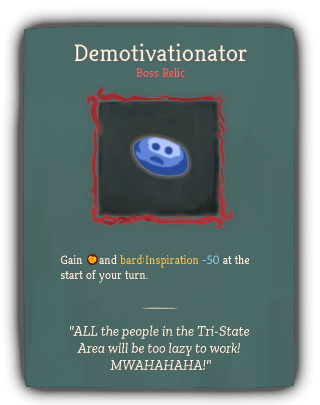
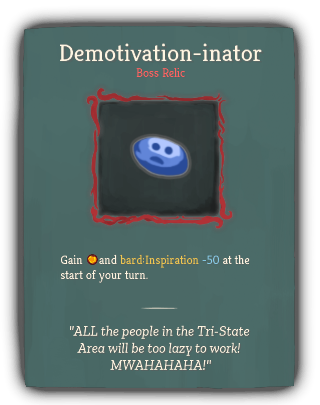
goo goo

Changed region(s): [[0.1875, 0.0889, 0.8125, 0.1481]]

diff --git a/vexMod/index.html b/vexMod/index.html
@@ -1106,15 +1106,6 @@ When you die or win, @DBotling tweets about your run.</td>
   </tr>
   
   <tr>
-    <td><a href="relics/popup/RestingRock.png">Rock of Resting</a></td>
-    <td><img src="relics/RestingRock.png" width="128" height="128"><a href="relics/popup/RestingRock.png"><img src="relics/small-popup/RestingRock.png" class="popup"></a></td>
-    <td>Common</td>
-    <td>Bard_color</td>
-    <td>Whenever you <span class="color-y">Queue</span> a [RestNote] [REMOVE_SPACE], gain <span class="color-b">2</span> <span class="color-y">Block.</span></td>
-    <td>Just sit back and - for awhile.</td>
-  </tr>
-  
-  <tr>
     <td><a href="relics/popup/SingingFlower.png">Singing Flower</a></td>
     <td><img src="relics/SingingFlower.png" width="128" height="128"><a href="relics/popup/SingingFlower.png"><img src="relics/small-popup/SingingFlower.png" class="popup"></a></td>
     <td>Common</td>
@@ -1768,7 +1759,7 @@ High Score: 0</td>
   </tr>
   
   <tr>
-    <td><a href="relics/popup/Demotivationator.png">Demotivationator</a></td>
+    <td><a href="relics/popup/Demotivationator.png">Demotivation-inator</a></td>
     <td><img src="relics/Demotivationator.png" width="128" height="128"><a href="relics/popup/Demotivationator.png"><img src="relics/small-popup/Demotivationator.png" class="popup"></a></td>
     <td>Boss</td>
     <td>Bard_color</td>
@@ -1884,7 +1875,7 @@ Whenever you play a card, put it on the bottom of your draw pile.</td>
     <td>Boss</td>
     <td></td>
     <td>Every other turn, assists with a helpful effect.</td>
-    <td>Your new teammate. It rocks!</td>
+    <td>He's gnot a gnelf.</td>
   </tr>
   
   <tr>

diff --git a/vexMod/relics.html b/vexMod/relics.html
@@ -163,15 +163,6 @@ When you die or win, @DBotling tweets about your run.</td>
   </tr>
   
   <tr>
-    <td><a href="relics/popup/RestingRock.png">Rock of Resting</a></td>
-    <td><img src="relics/RestingRock.png" width="128" height="128"><a href="relics/popup/RestingRock.png"><img src="relics/small-popup/RestingRock.png" class="popup"></a></td>
-    <td>Common</td>
-    <td>Bard_color</td>
-    <td>Whenever you <span class="color-y">Queue</span> a [RestNote] [REMOVE_SPACE], gain <span class="color-b">2</span> <span class="color-y">Block.</span></td>
-    <td>Just sit back and - for awhile.</td>
-  </tr>
-  
-  <tr>
     <td><a href="relics/popup/SingingFlower.png">Singing Flower</a></td>
     <td><img src="relics/SingingFlower.png" width="128" height="128"><a href="relics/popup/SingingFlower.png"><img src="relics/small-popup/SingingFlower.png" class="popup"></a></td>
     <td>Common</td>
@@ -825,7 +816,7 @@ High Score: 0</td>
   </tr>
   
   <tr>
-    <td><a href="relics/popup/Demotivationator.png">Demotivationator</a></td>
+    <td><a href="relics/popup/Demotivationator.png">Demotivation-inator</a></td>
     <td><img src="relics/Demotivationator.png" width="128" height="128"><a href="relics/popup/Demotivationator.png"><img src="relics/small-popup/Demotivationator.png" class="popup"></a></td>
     <td>Boss</td>
     <td>Bard_color</td>
@@ -941,7 +932,7 @@ Whenever you play a card, put it on the bottom of your draw pile.</td>
     <td>Boss</td>
     <td></td>
     <td>Every other turn, assists with a helpful effect.</td>
-    <td>Your new teammate. It rocks!</td>
+    <td>He's gnot a gnelf.</td>
   </tr>
   
   <tr>

diff --git a/vexMod/index.md b/vexMod/index.md
@@ -123,7 +123,6 @@
 | ![](relics/RainbowShades.png) | Rainbow Shades | Common | Astrologer | The first time you draw an #yEthereal card each combat, put a copy of it on top of your draw pile. | Lookin' to the sky in style. |
 | ![](relics/RelicLauncher.png) | Relic Launcher | Common |  | At the start of each combat, deal damage to a random enemy equal to the number of Relics you have. | Mostly an excuse to use the FX. |
 | ![](relics/WellWornAnklet.png) | Right Greave | Common |  | At the start of turns #b3 and #b7, gain #b7 #yBlock. | Forever waiting to be reunited with Left Greave. |
-| ![](relics/RestingRock.png) | Rock of Resting | Common | Bard_color | Whenever you #yQueue a [RestNote] [REMOVE_SPACE], gain #b2 #yBlock. | Just sit back and - for awhile. |
 | ![](relics/SingingFlower.png) | Singing Flower | Common | Bard_color | Every #b3 turns, #ybard:Queue a [BuffNote] [REMOVE_SPACE]. | It's, like, in tune with the planet's energy, dude! |
 | ![](relics/Spotlight.png) | Spotlight | Common | Astrologer | At the start of each combat, apply #b3 #yStarlit to ALL enemies. | Light 'em up! |
 | ![](relics/StrikeShooter.png) | Strike Shooter | Common | Red | At the start of every third turn, play a πStrike at a random target. | All your sword-firing needs in one medium package! |
@@ -196,7 +195,7 @@
 | ![](relics/FluxCapacitor.png) | Clock Rock | Boss |  | Gain [E] at the start of your turn. Upon pickup, set your run timer to #b-10 minutes. At the end of combat, rewind your run timer by #b30 seconds. When your run timer hits #b0, you #rlose. | Tick tock goes the clock rock. |
 | ![](relics/CursedCompass.png) | Cursed Compass | Boss |  | Gain [E] at the start of your turn. Future maps contain only #b1 path. | No matter which way you turn, it always points forwards... |
 | ![](relics/ElectroStars.png) | Cyborg Telescope | Boss | Astrologer | Start each combat with #b3 Orb slots. Whenever you play a #yStar, #yChannel #b1 #yLightning. | You realize now that every electric volt is a tiny star too. |
-| ![](relics/Demotivationator.png) | Demotivationator | Boss | Bard_color | Gain [E] and #ybard:Inspiration #b-50 at the start of your turn. | "ALL the people in the Tri-State Area will be too lazy to work! MWAHAHAHA!" |
+| ![](relics/Demotivationator.png) | Demotivation-inator | Boss | Bard_color | Gain [E] and #ybard:Inspiration #b-50 at the start of your turn. | "ALL the people in the Tri-State Area will be too lazy to work! MWAHAHAHA!" |
 | ![](relics/DeviousBotling.png) | Devious Botling | Boss |  | Gain [E] at the start of your turn. Torments you randomly in annoying ways. Insults you on Twitter when you die. | A tiny little mini-bot whose prime directive is to mess with people. Twitter at @DBotling. |
 | ![](relics/EndlessSickness.png) | Endless Sickness | Boss |  | Gain [E] at the start of your turn. At the start of each combat, shuffle a #rVirus into your draw pile. | Always multiplying. |
 | ![](relics/RockOfEvil.png) | Horrorstone | Boss |  | Gain [E] at the start of your turn. Upon pickup, obtain #b666 #yGold and a random #rBlight. | Holding it fills you with terror. Your drop it, but it writhes back into your pocket. |
@@ -208,7 +207,7 @@
 | ![](relics/MusicMaker.png) | Pipes of Chaos | Boss | Bard_color | Replaces [#4169e1ff]Bag[] [#4169e1ff]Pipes[][#4169e1ff].[] NL Draw #b2 less cards each turn. Whenever you play a card, #ybard:Queue a [WildNote] [REMOVE_SPACE]. | Crafted by an evil god, you shudder to play it. |
 | ![](relics/FutureSight.png) | Sight of Future Skies | Boss | Astrologer | Replaces [#c8c8dcff]Sky's[] [#c8c8dcff]Mirror[][#c8c8dcff].[] NL Whenever you play a card, put it on the bottom of your draw pile. | You see it all laid out. One day the sky shall burn away. |
 | ![](relics/StarEater.png) | Star Eater | Boss | Astrologer | Gain [E] at the start of your turn. At the end of your turn, decrease the #yStellar #yPhase by #b2. | One by one, the stars in the sky wink out. |
-| ![](relics/RockFriend.png) | Stone Buddy | Boss |  | Every other turn, assists with a helpful effect. | Your new teammate. It rocks! |
+| ![](relics/RockFriend.png) | Stone Buddy | Boss |  | Every other turn, assists with a helpful effect. | He's gnot a gnelf. |
 | ![](relics/MegatonBomb.png) | Superbombomb | Boss |  | At the end of your turn, #rlose #b1 HP from #gradiation #gpoisoning. NL #pRight #pclick: #rDestroy #rthis #rrelic #rand #gOBLITERATE #rall #renemies. | A superweapon beyond any technology. Who made this...? |
 | ![](relics/TanglingVine.png) | Tangling Vine | Boss |  | Gain [E] at the start of your turn. At the end of your turn, lose #b3 #yBlock. | Don't take this the wrong way. |
 | ![](relics/TreasureMap.png) | Adventure Map | Shop |  | ALL #y? rooms contain events. | The real treasure was the friends we made along the way. |

diff --git a/vexMod/relics.md b/vexMod/relics.md
@@ -16,7 +16,6 @@
 | ![](relics/RainbowShades.png) | Rainbow Shades | Common | Astrologer | The first time you draw an #yEthereal card each combat, put a copy of it on top of your draw pile. | Lookin' to the sky in style. |
 | ![](relics/RelicLauncher.png) | Relic Launcher | Common |  | At the start of each combat, deal damage to a random enemy equal to the number of Relics you have. | Mostly an excuse to use the FX. |
 | ![](relics/WellWornAnklet.png) | Right Greave | Common |  | At the start of turns #b3 and #b7, gain #b7 #yBlock. | Forever waiting to be reunited with Left Greave. |
-| ![](relics/RestingRock.png) | Rock of Resting | Common | Bard_color | Whenever you #yQueue a [RestNote] [REMOVE_SPACE], gain #b2 #yBlock. | Just sit back and - for awhile. |
 | ![](relics/SingingFlower.png) | Singing Flower | Common | Bard_color | Every #b3 turns, #ybard:Queue a [BuffNote] [REMOVE_SPACE]. | It's, like, in tune with the planet's energy, dude! |
 | ![](relics/Spotlight.png) | Spotlight | Common | Astrologer | At the start of each combat, apply #b3 #yStarlit to ALL enemies. | Light 'em up! |
 | ![](relics/StrikeShooter.png) | Strike Shooter | Common | Red | At the start of every third turn, play a πStrike at a random target. | All your sword-firing needs in one medium package! |
@@ -89,7 +88,7 @@
 | ![](relics/FluxCapacitor.png) | Clock Rock | Boss |  | Gain [E] at the start of your turn. Upon pickup, set your run timer to #b-10 minutes. At the end of combat, rewind your run timer by #b30 seconds. When your run timer hits #b0, you #rlose. | Tick tock goes the clock rock. |
 | ![](relics/CursedCompass.png) | Cursed Compass | Boss |  | Gain [E] at the start of your turn. Future maps contain only #b1 path. | No matter which way you turn, it always points forwards... |
 | ![](relics/ElectroStars.png) | Cyborg Telescope | Boss | Astrologer | Start each combat with #b3 Orb slots. Whenever you play a #yStar, #yChannel #b1 #yLightning. | You realize now that every electric volt is a tiny star too. |
-| ![](relics/Demotivationator.png) | Demotivationator | Boss | Bard_color | Gain [E] and #ybard:Inspiration #b-50 at the start of your turn. | "ALL the people in the Tri-State Area will be too lazy to work! MWAHAHAHA!" |
+| ![](relics/Demotivationator.png) | Demotivation-inator | Boss | Bard_color | Gain [E] and #ybard:Inspiration #b-50 at the start of your turn. | "ALL the people in the Tri-State Area will be too lazy to work! MWAHAHAHA!" |
 | ![](relics/DeviousBotling.png) | Devious Botling | Boss |  | Gain [E] at the start of your turn. Torments you randomly in annoying ways. Insults you on Twitter when you die. | A tiny little mini-bot whose prime directive is to mess with people. Twitter at @DBotling. |
 | ![](relics/EndlessSickness.png) | Endless Sickness | Boss |  | Gain [E] at the start of your turn. At the start of each combat, shuffle a #rVirus into your draw pile. | Always multiplying. |
 | ![](relics/RockOfEvil.png) | Horrorstone | Boss |  | Gain [E] at the start of your turn. Upon pickup, obtain #b666 #yGold and a random #rBlight. | Holding it fills you with terror. Your drop it, but it writhes back into your pocket. |
@@ -101,7 +100,7 @@
 | ![](relics/MusicMaker.png) | Pipes of Chaos | Boss | Bard_color | Replaces [#4169e1ff]Bag[] [#4169e1ff]Pipes[][#4169e1ff].[] NL Draw #b2 less cards each turn. Whenever you play a card, #ybard:Queue a [WildNote] [REMOVE_SPACE]. | Crafted by an evil god, you shudder to play it. |
 | ![](relics/FutureSight.png) | Sight of Future Skies | Boss | Astrologer | Replaces [#c8c8dcff]Sky's[] [#c8c8dcff]Mirror[][#c8c8dcff].[] NL Whenever you play a card, put it on the bottom of your draw pile. | You see it all laid out. One day the sky shall burn away. |
 | ![](relics/StarEater.png) | Star Eater | Boss | Astrologer | Gain [E] at the start of your turn. At the end of your turn, decrease the #yStellar #yPhase by #b2. | One by one, the stars in the sky wink out. |
-| ![](relics/RockFriend.png) | Stone Buddy | Boss |  | Every other turn, assists with a helpful effect. | Your new teammate. It rocks! |
+| ![](relics/RockFriend.png) | Stone Buddy | Boss |  | Every other turn, assists with a helpful effect. | He's gnot a gnelf. |
 | ![](relics/MegatonBomb.png) | Superbombomb | Boss |  | At the end of your turn, #rlose #b1 HP from #gradiation #gpoisoning. NL #pRight #pclick: #rDestroy #rthis #rrelic #rand #gOBLITERATE #rall #renemies. | A superweapon beyond any technology. Who made this...? |
 | ![](relics/TanglingVine.png) | Tangling Vine | Boss |  | Gain [E] at the start of your turn. At the end of your turn, lose #b3 #yBlock. | Don't take this the wrong way. |
 | ![](relics/TreasureMap.png) | Adventure Map | Shop |  | ALL #y? rooms contain events. | The real treasure was the friends we made along the way. |
